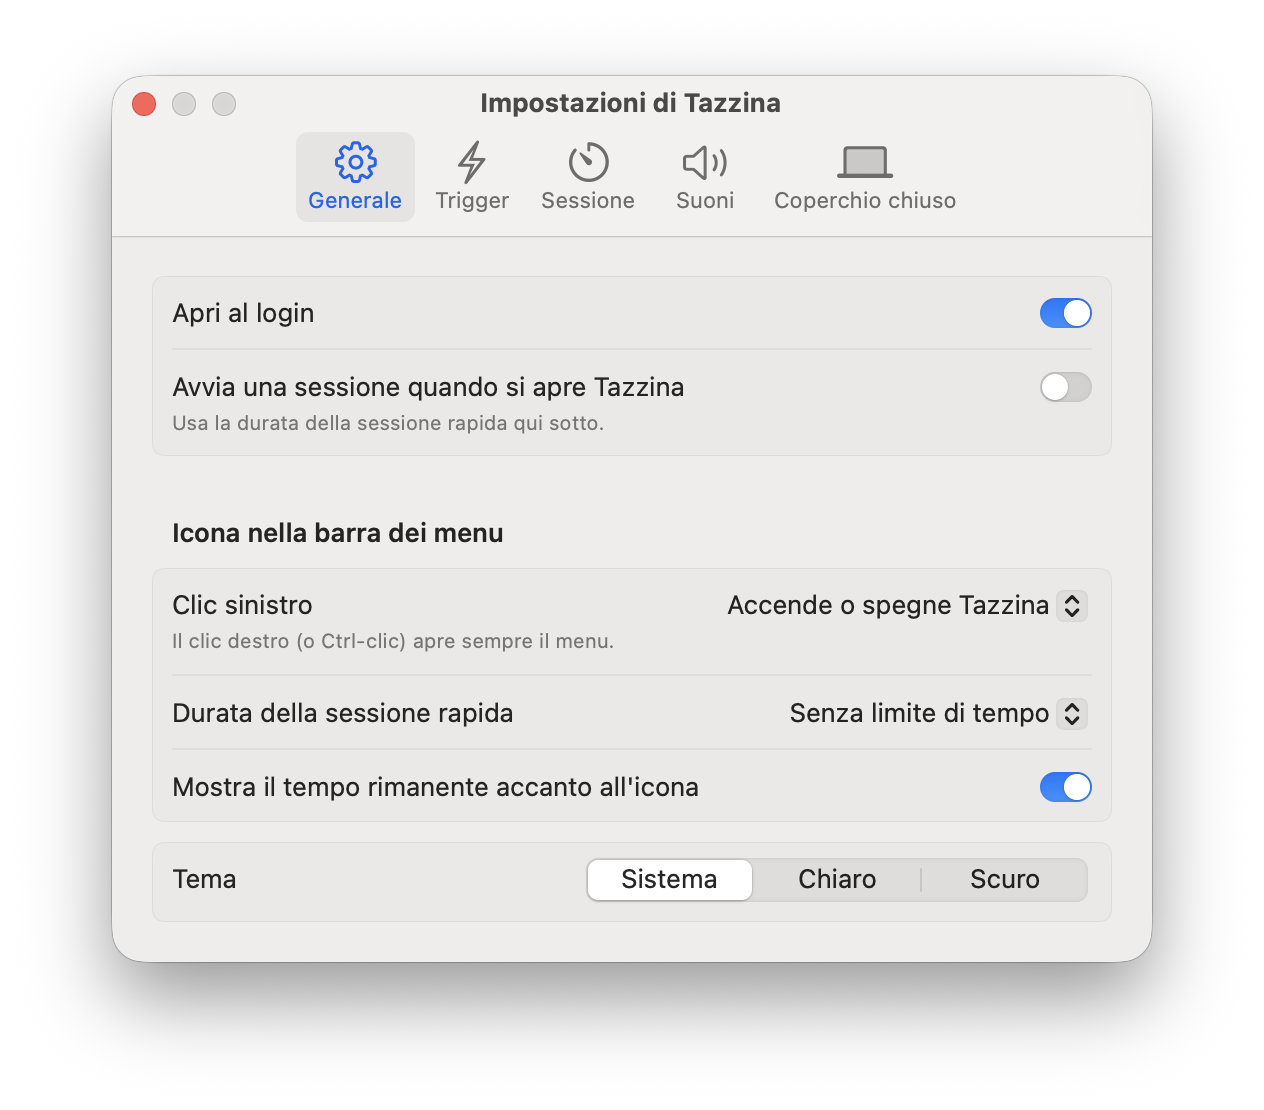
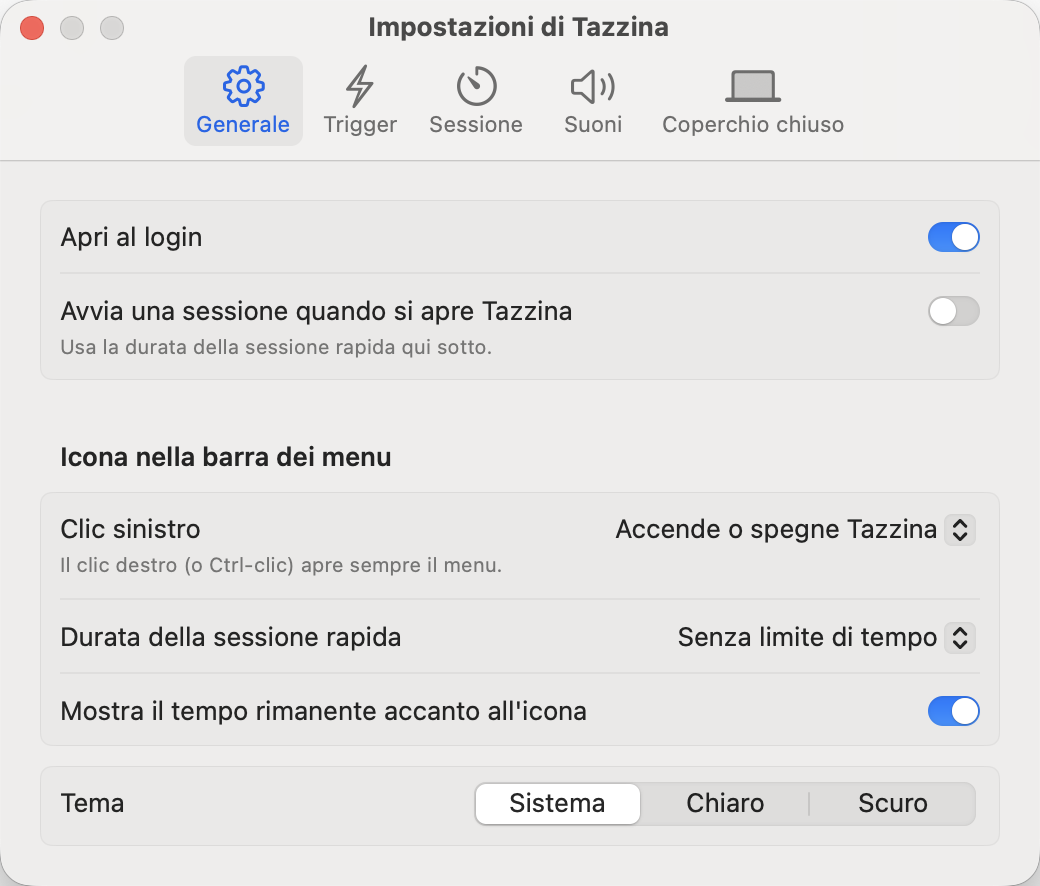
Add English localization, language picker and lighter screenshots
- Complete English strings file next to the Italian one
- Language setting (System / Italiano / English), applied with a quick restart
- Screenshots cropped to the window and brightened so they read well on any background
- README: Homebrew installation

diff --git a/Sources/Tazzina/SettingsView.swift b/Sources/Tazzina/SettingsView.swift
@@ -1,3 +1,4 @@
+import AppKit
 import ServiceManagement
 import SwiftUI
 
@@ -40,6 +41,7 @@ struct Hint: View {
 struct GeneralPane: View {
     @ObservedObject private var settings = AppSettings.shared
     @State private var launchAtLogin = SMAppService.mainApp.status == .enabled
+    @State private var language = AppLanguage.current
 
     var body: some View {
         Form {
@@ -71,6 +73,15 @@ struct GeneralPane: View {
             }
 
             Section {
+                VStack(alignment: .leading, spacing: 4) {
+                    Picker("Language", selection: $language) {
+                        Text("System").tag("")
+                        Text(verbatim: "Italiano").tag("it")
+                        Text(verbatim: "English").tag("en")
+                    }
+                    .onChange(of: language) { _, code in AppLanguage.set(code) }
+                    Hint("Tazzina restarts to change language.")
+                }
                 Picker("Theme", selection: $settings.theme) {
                     ForEach(AppTheme.allCases) { theme in
                         Text(theme.label).tag(theme.rawValue)
@@ -254,5 +265,33 @@ struct LidPane: View {
             .padding(.horizontal, 10)
             .padding(.vertical, 3)
             .background(color.opacity(0.18), in: Capsule())
+    }
+}
+
+/// Lingua dell'app, indipendente da quella del Mac. Cambiarla riavvia Tazzina.
+@MainActor
+enum AppLanguage {
+    /// "" = lingua di sistema, altrimenti "it" o "en".
+    static var current: String {
+        (UserDefaults.standard.persistentDomain(forName: Bundle.main.bundleIdentifier ?? "")?["AppleLanguages"]
+            as? [String])?.first.map { String($0.prefix(2)) } ?? ""
+    }
+
+    static func set(_ code: String) {
+        guard code != current else { return }
+        if code.isEmpty {
+            UserDefaults.standard.removeObject(forKey: "AppleLanguages")
+        } else {
+            UserDefaults.standard.set([code], forKey: "AppleLanguages")
+        }
+        relaunch()
+    }
+
+    private static func relaunch() {
+        let task = Process()
+        task.executableURL = URL(fileURLWithPath: "/bin/sh")
+        task.arguments = ["-c", "sleep 1; /usr/bin/open \"$0\"", Bundle.main.bundlePath]
+        try? task.run()
+        NSApp.terminate(nil)
     }
 }

diff --git a/README.md b/README.md
@@ -25,10 +25,15 @@
 - **Automation:** `tazzina://on`, `tazzina://on?minutes=30`, `tazzina://on?app=com.apple.Safari`, `tazzina://off`, `tazzina://toggle` (from Terminal: `open "tazzina://toggle"`, or from Shortcuts with "Open URL").
 - **Lightweight:** reacts to system events instead of polling every second.
 - **Appearance:** System, Light and Dark themes.
-- **Multi-language:** Italian 🇮🇹 and English 🇬🇧.
+- **Multi-language:** Italian 🇮🇹 and English 🇬🇧, following the system or chosen in Settings.
 
 ## 🚀 Requirements
 - macOS 14 Sonoma or later (Apple Silicon or Intel)
+
+## 🍺 Installation via Homebrew
+```bash
+brew install --cask gionnio/tap/tazzina
+```
 
 ## 📥 Manual Installation
 1. Download `Tazzina_vX.Y.Z.zip` from the Releases page and unzip it.
@@ -59,7 +64,7 @@ cd tazzina
 - [ ] More trigger conditions (audio playing, user idle, IP address / VPN)
 - [ ] Alarm when the lid is closed on battery during a session
 - [ ] Session statistics
-- [ ] Homebrew cask
+- [x] Homebrew cask
 
 ## Privacy & Security
 - Tazzina works entirely on your Mac: no network connections, no analytics.
